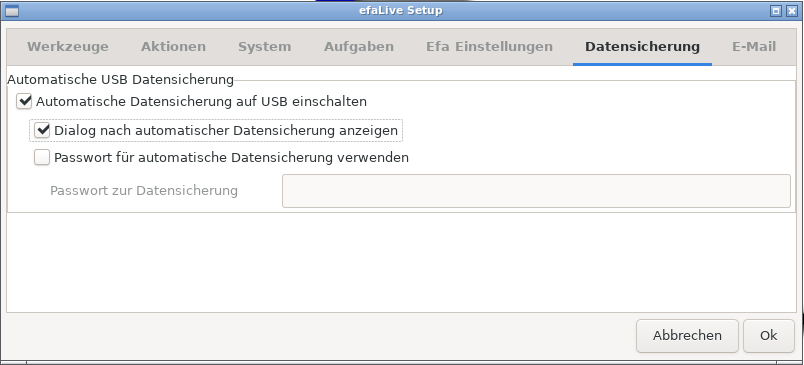
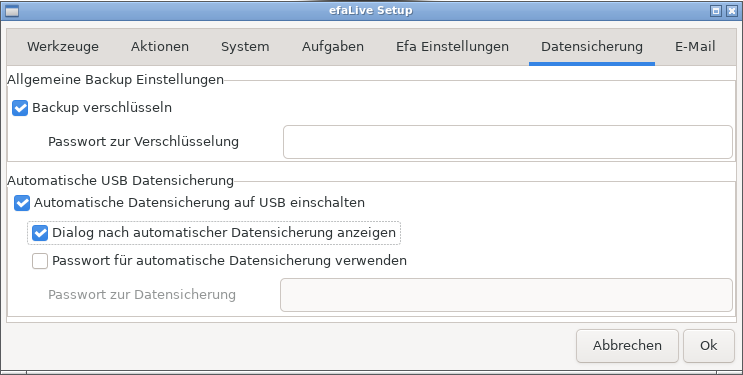
fix: update documentation and add some packages

diff --git a/doc/de/efaLive_de.tex b/doc/de/efaLive_de.tex
@@ -2,7 +2,7 @@
 \newcommand{\Author}{Kay Hannay <klinux@hannay.de>} 
 \newcommand{\Title}{efaLive}
 \newcommand{\Keywords}{efaLive efa rowing canoeing}
-\newcommand{\DocDate}{26.01.2023}
+\newcommand{\DocDate}{18.02.2024}
 %--------------------------
 
 \documentclass[a4paper,12pt,twoside]{article}
@@ -51,8 +51,8 @@
     \normalsize
     \vspace*{4cm}
     \textbf{Datum:} {\DocDate} \\
-    \textbf{Version:} 1.12 \\
-    \textbf{efaLive:} 2.8.5 \\
+    \textbf{Version:} 1.13 \\
+    \textbf{efaLive:} 2.10.4 \\
     \textbf{Kay Hannay} <klinux@hannay.de> \\
 \end{titlepage}
 
@@ -768,6 +768,8 @@ als Benutzer "`efa"' benutzt werden. Der Platzhalter "`{\textless}MOUNT
 POINT{\textgreater}"' muss durch den Einhängepunkt des USB Sticks 
 ersetzt werden.
 
+Optional können die Datensicherungen verschlüsselt werden.
+
 
 \subsubsection{Wiederherstellen}
 \label{sct:daten_wiederherstellen}
@@ -796,6 +798,8 @@ Der Computer sollte nach der Wiederherstellung neu gestartet werden,
 damit efa die neuen Daten benutzt. Dies kann über efaLive-Setup
 erledigt werden.
 
+Handelt es sich um eine verschlüsselte Datensicherung, muss zuerst das zugehörige Passwort
+in efaLive-Setup konfiguriert werden.
 
 \section{efaLive-Setup}
 \label{sct:efalivesetup}
@@ -1157,6 +1161,12 @@ grafischer Login erscheint.
 \end{minipage}
 \bigskip
 
+Sämtliche über das efaLive System erstellten Backups können verschlüsselt werden.
+Dazu kann hier der entsprechende Haken gesetzt und ein Passwort vergeben werden.
+Um ein solches Backup auf einem Linux System zu entschlüsseln kann folgender
+Befehl genutzt werden: \texttt{gpg -d -o some-backup.zip some-backup.zip.gpg}.
+Unter Windows kann z.B. Gpg4Win benutzt werden.
+
 In der Standardeinstellung ist die automatische Datensicherung auf
 USB-Sticks abgeschaltet. Durch das Setzen eines Hakens bei
 "`Automatische Datensicherung auf USB
@@ -1186,10 +1196,10 @@ sensible Passwörter gespeichert.
 \end{minipage}
 \bigskip
 
-Hier können Einstellungen für das von efaLive zu verwendene E-Mail-Konto
+Hier können Einstellungen für das von efaLive zu verwendende E-Mail-Konto
 vorgenommen werden. Das E-Mail-Konto wird für alle zu versendenden E-Mails
 von efaLive verwendet. Die Felder sollten weitestgehend elbsterklärend sein.
-Das Feld "`Abender"' ist mit der E-Mail-Adresse des gewünschten Absenders zu
+Das Feld "`Absender"' ist mit der E-Mail-Adresse des gewünschten Absenders zu
 füllen.
 
 
@@ -1315,13 +1325,13 @@ eventuell noch der Eintrag für das efaLive repository. Sonst müssen als
 Benutzer "`root"' die folgenden Befehle ausgeführt werden:
 \bigskip
 \\
-\texttt{echo "deb http://deb.debian.org/debian/ bullseye main contrib \textbackslash\\
+\texttt{echo "deb http://deb.debian.org/debian/ bookworm main contrib \textbackslash\\
     non-free"\ {\textgreater}{\textgreater} /etc/apt/sources.list}
 \\
-\texttt{echo "deb-src http://deb.debian.org/debian/ bullseye main contrib \textbackslash\\
+\texttt{echo "deb-src http://deb.debian.org/debian/ bookworm main contrib \textbackslash\\
     non-free"\ {\textgreater}{\textgreater} /etc/apt/sources.list}
 \\
-\texttt{echo "deb https://efalive.hannay.de/debian/ bullseye main" \textbackslash\\
+\texttt{echo "deb https://efalive.hannay.de/debian/ bookworm main" \textbackslash\\
     {\textgreater}{\textgreater} /etc/apt/sources.list}
 
 \bigskip

diff --git a/doc/en/efaLive_en.tex b/doc/en/efaLive_en.tex
@@ -2,7 +2,7 @@
 \newcommand{\Author}{Kay Hannay <klinux@hannay.de>} 
 \newcommand{\Title}{efaLive}
 \newcommand{\Keywords}{efaLive efa rowing canoeing}
-\newcommand{\DocDate}{26.01.2023}
+\newcommand{\DocDate}{18.02.2024}
 %--------------------------
 
 \documentclass[a4paper,12pt,twoside]{article}
@@ -51,8 +51,8 @@
     \normalsize
     \vspace*{4cm}
     \textbf{Date:} {\DocDate} \\
-    \textbf{Version:} 1.12 \\
-    \textbf{efaLive:} 2.8.5 \\
+    \textbf{Version:} 1.13 \\
+    \textbf{efaLive:} 2.10.4 \\
     \textbf{Kay Hannay} <klinux@hannay.de> \\
 \end{titlepage}
 
@@ -706,6 +706,8 @@ backup by running the command \texttt{efalive-backup
 holder "{\textless}MOUNT POINT{\textgreater}" has to be replaced by the 
 mount point of the USB stick.
 
+Optionally the backup can get encrypted.
+
 
 \subsubsection{Restore}
 \label{sct:restore}
@@ -728,6 +730,9 @@ of efa under "Administrators" - "Repair Admin efaLive".
 
 You should restart the PC after you have restored a backup so that all
 settings take effect. You can use efaLive-Setup for restart.
+
+In case of an encrypted backup you first have to configure the password
+in efaLive-Setup.
 
 
 \section{efaLive-Setup}
@@ -1045,6 +1050,11 @@ screen.
 \end{minipage}
 \bigskip
 
+All backups performed by efaLive can get encrypted. Enable the encryption here
+and provide a password. To decrypt such a backup on Linux, you can use:
+\texttt{gpg -d -o some-backup.zip some-backup.zip.gpg}.
+On Windows you can use Gpg4Win, for example.
+
 Per default the automatic backup on USB sticks is disabled. You can
 enable it here. In case you have enabled it, you can also set whether a
 dialog should be shown after the backup. This is useful if you
@@ -1183,13 +1193,13 @@ need the entry for the efaLive repository. If not, you have to add this mirror
 server now. Use the following commands as user "root":
 \bigskip
 \\
-\texttt{echo "deb http://deb.debian.org/debian/ bullseye main contrib \textbackslash\\
+\texttt{echo "deb http://deb.debian.org/debian/ bookworm main contrib \textbackslash\\
     non-free"\ {\textgreater}{\textgreater} /etc/apt/sources.list}
 \\
-\texttt{echo "deb-src http://deb.debian.org/debian/ bullseye main contrib \textbackslash\\
+\texttt{echo "deb-src http://deb.debian.org/debian/ bookworm main contrib \textbackslash\\
     non-free"\ {\textgreater}{\textgreater} /etc/apt/sources.list}
 \\
-\texttt{echo "deb https://efalive.hannay.de/debian/ bullseye main" \textbackslash\\
+\texttt{echo "deb https://efalive.hannay.de/debian/ bookworm main" \textbackslash\\
     {\textgreater}{\textgreater} /etc/apt/sources.list}
 
 \bigskip
